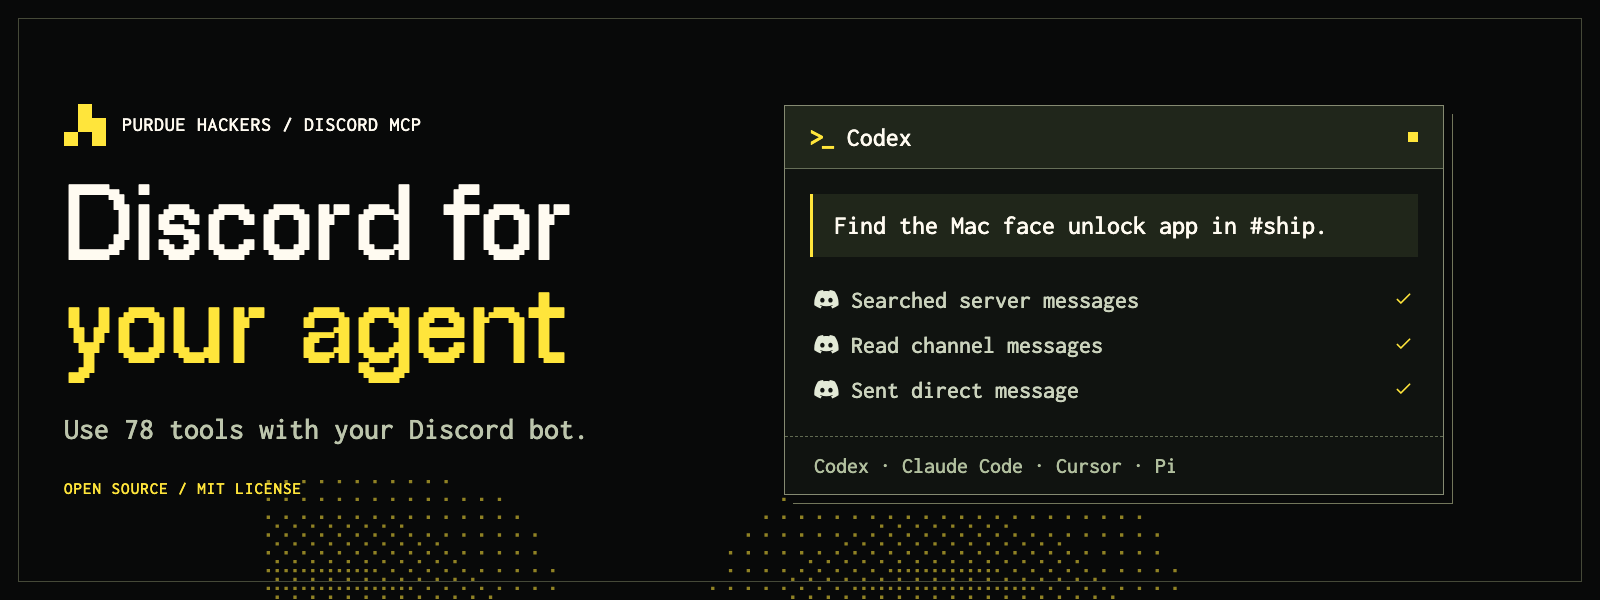
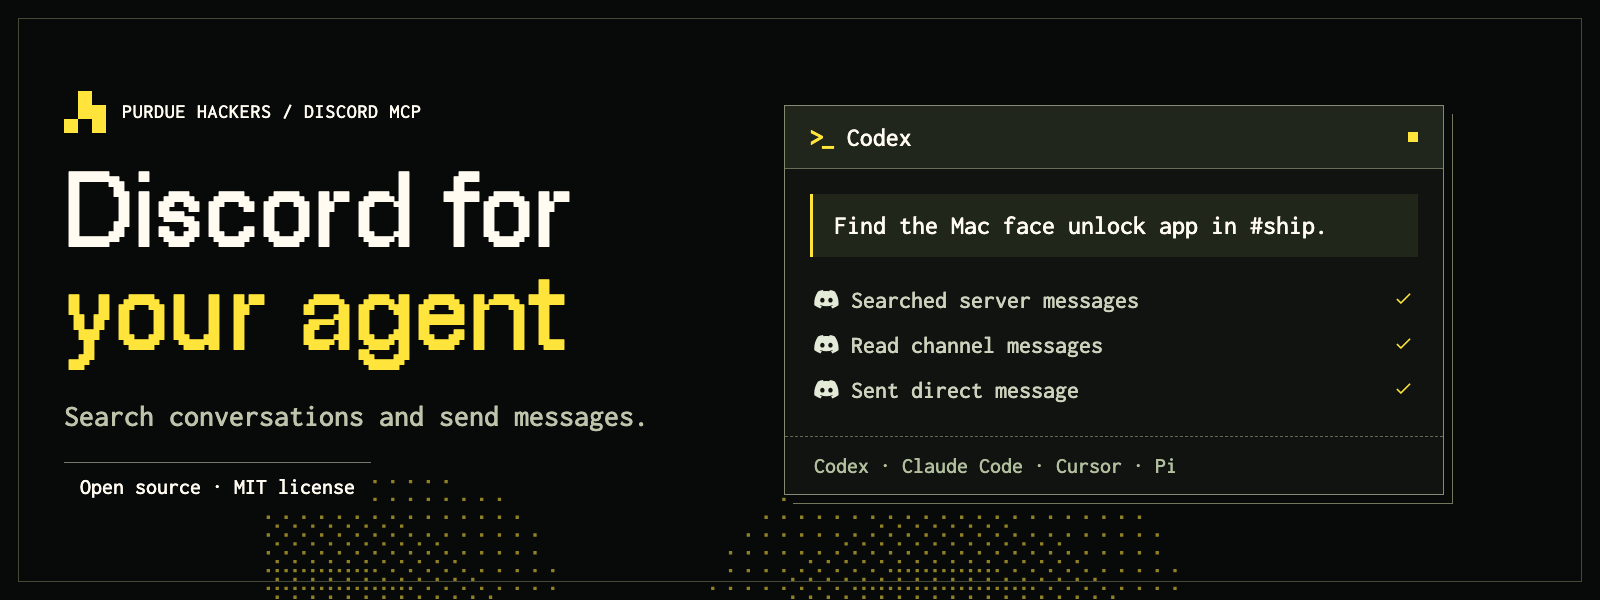
Clarify demo tagline and improve credit contrast

diff --git a/demo/src/style.css b/demo/src/style.css
@@ -132,11 +132,16 @@ h1 span {
 }
 .intro-credit {
   position: absolute;
+  left: 120px;
+  right: 120px;
   bottom: 58px;
-  font-size: 23px;
-  color: #ffe53b;
+  font-size: 32px;
+  font-weight: 600;
+  line-height: 1.3;
+  color: #fffbf1;
   background: #080909;
-  padding: 9px 12px 9px 0;
+  border-top: 1px solid #77796b;
+  padding: 22px 24px;
 }
 .install-window {
   position: relative;
@@ -601,10 +606,13 @@ a {
   margin-top: 28px;
 }
 .banner-credit {
-  font-size: 17px;
-  color: #ffe53b;
-  letter-spacing: 0.06em;
-  margin-top: 34px;
+  width: fit-content;
+  font-size: 22px;
+  color: #fffbf1;
+  background: #080909;
+  border-top: 1px solid #77796b;
+  padding: 12px 16px;
+  margin-top: 22px;
 }
 .banner-preview {
   width: 660px;

diff --git a/demo/src/banner.tsx b/demo/src/banner.tsx
@@ -16,8 +16,8 @@ export function Banner() {
           <br />
           <span>your agent</span>
         </h1>
-        <p>Use 78 tools with your Discord bot.</p>
-        <div className="banner-credit">OPEN SOURCE / MIT LICENSE</div>
+        <p>Search conversations and send messages.</p>
+        <div className="banner-credit">Open source · MIT license</div>
       </div>
       <div className="banner-preview">
         <div className="banner-window-title">

diff --git a/demo/src/intro-scene.tsx b/demo/src/intro-scene.tsx
@@ -27,9 +27,9 @@ export function IntroScene() {
         <span>for agents</span>
       </h1>
       <Reveal delay={14} className="intro-caption">
-        Use 78 Discord tools with your bot.
+        Search conversations and send messages.
       </Reveal>
-      <div className="intro-credit">DISCORD MCP / OPEN SOURCE / BUILT AT PURDUE HACKERS</div>
+      <div className="intro-credit">Open source by Purdue Hackers</div>
     </div>
   );
 }
